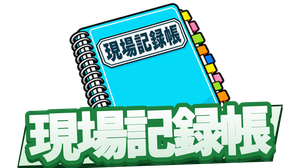
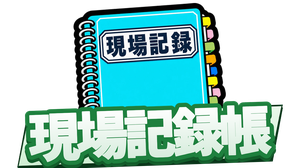
現場記録帳の絵を新しい絵に差し替え／メニューの絵を作る道具を保存
Claude-Session: https://claude.ai/code/session_01SSqBungNj4wBMJYD7VEwk6

Changed region(s): [[0.21, 0.0, 0.78, 0.6548]]

diff --git a/kirokucho_demo.html b/kirokucho_demo.html
@@ -1676,7 +1676,7 @@ header button.new-btn.newbig{font-size:17px !important; padding:3px 13px 4px !im
 
 <header id="nnHdr">
   <button class="new-btn nn-back nn-backimg" onclick="nnBack()" title="ひとつ前に戻る"><img src="./icons/btn_back.png?v=2026-09-07e" alt="戻る" onerror="var b=this.parentElement;b.classList.remove('nn-backimg');b.textContent='↩';"></button>
-  <span class="hicon" id="hicon"><img src="./icons/kiroku_icon.png?v=2026-10-24zr" alt="" style="height:34px;vertical-align:middle" onerror="this.parentElement.textContent=ICONS.header"></span>
+  <span class="hicon" id="hicon"><img src="./icons/kiroku_icon.png?v=2026-10-26s" alt="" style="height:34px;vertical-align:middle" onerror="this.parentElement.textContent=ICONS.header"></span>
   <h1><span class="nnTtl">現場記録帳</span></h1>
   <span class="count">全<span id="cnt">0</span>件</span>
   <button class="new-btn newbig" onclick="openModal()" style="font-size:17px; font-weight:800;">＋ 新規作成</button>
@@ -3270,7 +3270,7 @@ function buildNav(){
   n.innerHTML=NAV.map(([k,l])=>{
     const suf=(k===NAV_ACTIVE)?'_on':'';
     return `<div class="ni ${k===NAV_ACTIVE?'on':''}" onclick="navGo('${k}','${l}')">
-      <span class="ic"><img src="./icons/nav_${k}${suf}.png?v=2026-10-26n" alt="${l}"
+      <span class="ic"><img src="./icons/nav_${k}${suf}.png?v=2026-10-26s" alt="${l}"
         onload="this.closest('.ni').classList.add('hasimg')"
         onerror="if(!this.dataset.f){this.dataset.f=1;this.src='./icons/nav_${k}.png';}
                  else{this.outerHTML=ICONS['${k}']||'▫';}"></span><span>${l}</span></div>`;
@@ -4330,7 +4330,7 @@ function renderDash(onlyPanel){
       </table></div>
       <div class="motonote">予実差＝完成した現場の「実績の粗利率」−「見積のときの粗利率」。<b>マイナスは、見込みより残らなかった元請</b>です。手戻りは 手戻り／手直し／クレーム のタグが付いた現場の数。</div>
     </div>
-    <button class="go-list-btn" onclick="showView('list')"><img class="gl-ic" src="./icons/kiroku_icon.png?v=2026-10-24zr" alt="" onerror="this.remove()"><span class="gl-t" data-t="個別の現場記録へ">個別の現場記録へ</span><i class="gl-go">▶</i></button>`;
+    <button class="go-list-btn" onclick="showView('list')"><img class="gl-ic" src="./icons/kiroku_icon.png?v=2026-10-26s" alt="" onerror="this.remove()"><span class="gl-t" data-t="個別の現場記録へ">個別の現場記録へ</span><i class="gl-go">▶</i></button>`;
 
   if(onlyPanel){
     const panel=d.querySelector('.dpanel[data-panel-id="'+onlyPanel+'"]'),body=panel?.querySelector(':scope>.nn-panel-body');
@@ -4928,7 +4928,7 @@ nav, nav#nav{justify-content:center !important; padding-left:6px !important; pad
    古いものが出続けることがある。そこで ver.txt（数バイト）だけを
    毎回見に行き、公開版と違っていたら保存分を捨てて1回だけ読み直す。
    ★公開のたびに ver.txt と、下の NN_VER を同じ文字に更新すること。 */
-const NN_VER='2026-10-26r';
+const NN_VER='2026-10-26s';
 /* ============ 表示にかかった時間の記録（原因調査用・2026-07-28） ============
    スマホの実機でどこに時間がかかっているかを数字で出す。
    ・net  ＝ページを要求してから最初の返事が来るまで（通信の待ち）

diff --git a/index.html b/index.html
@@ -422,7 +422,7 @@ nav, nav#nav{overflow:visible; padding-top:2px;}
 
 <!-- 版の表示：スマホに届いている中身がどれかを、お互いに確認するための小さな印。
      不要になったらこの1行と #nnver の指定を消してください。 -->
-<div id="nnver">v2026-10-26 r</div>
+<div id="nnver">v2026-10-26 s</div>
 <script>
 /* ============ 実機の計測結果を表示（原因調査用・2026-07-28） ============
    数字の意味（単位はミリ秒）
@@ -522,7 +522,7 @@ function buildNav(){
   n.innerHTML=NAV.map(([k,l])=>{
     const suf=(k===NAV_ACTIVE)?'_on':'';
     return `<div class="ni ${k===NAV_ACTIVE?'on':''}" onclick="navGo('${k}','${l}')">
-      <span class="ic"><img src="./icons/nav_${k}${suf}.png?v=2026-10-26n" alt="${l}"
+      <span class="ic"><img src="./icons/nav_${k}${suf}.png?v=2026-10-26s" alt="${l}"
         onload="this.closest('.ni').classList.add('hasimg')"
         onerror="if(!this.dataset.f){this.dataset.f=1;this.src='./icons/nav_${k}.png';}
                  else{this.outerHTML=ICONS['${k}']||'▫';}"></span><span>${l}</span></div>`;
@@ -775,7 +775,7 @@ nav, nav#nav{justify-content:center !important; padding-left:6px !important; pad
    古いものが出続けることがある。そこで ver.txt（数バイト）だけを
    毎回見に行き、公開版と違っていたら保存分を捨てて1回だけ読み直す。
    ★公開のたびに ver.txt と、下の NN_VER を同じ文字に更新すること。 */
-const NN_VER='2026-10-26r';
+const NN_VER='2026-10-26s';
 /* ============ 表示にかかった時間の記録（原因調査用・2026-07-28） ============
    スマホの実機でどこに時間がかかっているかを数字で出す。
    ・net  ＝ページを要求してから最初の返事が来るまで（通信の待ち）

diff --git a/_check/navkiroku.js b/_check/navkiroku.js
@@ -21,7 +21,8 @@ for(const k of KEYS) for(const suf of ['','_on']){ const f='nav_'+k+suf+'.png';
     let band=0; for(let y=112;y<=150;y++){ const i=(y*c.width+3)*4; if(d[i+3]>200&&((Math.abs(d[i]-20)<=12&&Math.abs(d[i+1]-110)<=12&&Math.abs(d[i+2]-52)<=12)||(d[i]<30&&d[i+1]>150&&d[i+2]<110))) band++; }
     let ol=0; for(let y=c.height-60;y<c.height;y++) for(let x=0;x<c.width;x++){ const i=(y*c.width+x)*4; if(d[i+3]>200&&Math.abs(d[i]-30)<=16&&Math.abs(d[i+1]-128)<=16&&Math.abs(d[i+2]-62)<=16) ol++;   /* §803 文字のふち＝普通の緑 (30,128,62) */ }
     return {dark:worst,corner:d[(1*c.width+1)*4+3],band,ol,mid:d[(84*c.width+4)*4+3],w:c.width,h:c.height}; },data);
-  ok((k!=='kiroku'||r.dark<30)&&r.corner<20&&r.band<5&&r.ol>=600&&r.mid<20&&r.w===300&&r.h===168,f+' ①上端に暗い線なし ②角 ③帯なし ⑤大きい文字 ⑥カードなし・300×168',{線:r.dark,角:r.corner,帯:r.band,ふち:r.ol,左端:r.mid,大きさ:[r.w,r.h]});
+  /* ★2026-10-26s 現場記録帳の絵を本人が作り直し（黒いふち付きのデザイン）→ 上端の暗い点は絵のふちなので、ほかの絵と同じく見ない */
+  ok(r.corner<20&&r.band<5&&r.ol>=600&&r.mid<20&&r.w===300&&r.h===168,f+' ①上端に暗い線なし ②角 ③帯なし ⑤大きい文字 ⑥カードなし・300×168',{線:r.dark,角:r.corner,帯:r.band,ふち:r.ol,左端:r.mid,大きさ:[r.w,r.h]});
 }
 await b.close();
 const pages=['index','kirokucho_demo','zumen_sekisan','genba_map_v36','hacchu','kokkosho','camera','library','shiyo_toroku','yougo','zairyo_toroku'];

diff --git a/kokkosho.html b/kokkosho.html
@@ -1907,7 +1907,7 @@ function buildNav(){
   n.innerHTML=NAV.map(([k,l])=>{
     const suf=(k===NAV_ACTIVE)?'_on':'';
     return `<div class="ni ${k===NAV_ACTIVE?'on':''}" onclick="navGo('${k}','${l}')">
-      <span class="ic"><img src="./icons/nav_${k}${suf}.png?v=2026-10-26n" alt="${l}"
+      <span class="ic"><img src="./icons/nav_${k}${suf}.png?v=2026-10-26s" alt="${l}"
         onload="this.closest('.ni').classList.add('hasimg')"
         onerror="if(!this.dataset.f){this.dataset.f=1;this.src='./icons/nav_${k}.png';}
                  else{this.outerHTML=NAV_ICONS['${k}']||'▫';}"></span><span>${l}</span></div>`;
@@ -2491,7 +2491,7 @@ nav, nav#nav{justify-content:center !important; padding-left:6px !important; pad
    古いものが出続けることがある。そこで ver.txt（数バイト）だけを
    毎回見に行き、公開版と違っていたら保存分を捨てて1回だけ読み直す。
    ★公開のたびに ver.txt と、下の NN_VER を同じ文字に更新すること。 */
-const NN_VER='2026-10-26r';
+const NN_VER='2026-10-26s';
 /* ============ 表示にかかった時間の記録（原因調査用・2026-07-28） ============
    スマホの実機でどこに時間がかかっているかを数字で出す。
    ・net  ＝ページを要求してから最初の返事が来るまで（通信の待ち）

diff --git a/genba_map_v36.html b/genba_map_v36.html
@@ -4859,7 +4859,7 @@ function buildNav(){
   n.innerHTML=NAV.map(([k,l])=>{
     const suf=(k===NAV_ACTIVE)?'_on':'';
     return `<div class="ni ${k===NAV_ACTIVE?'on':''}" onclick="navGo('${k}','${l}')">
-      <span class="ic"><img src="./icons/nav_${k}${suf}.png?v=2026-10-26n" alt="${l}"
+      <span class="ic"><img src="./icons/nav_${k}${suf}.png?v=2026-10-26s" alt="${l}"
         onload="this.closest('.ni').classList.add('hasimg')"
         onerror="if(!this.dataset.f){this.dataset.f=1;this.src='./icons/nav_${k}.png';}
                  else{this.outerHTML=ICONS['${k}']||'▫';}"></span><span>${l}</span></div>`;
@@ -5048,7 +5048,7 @@ nav, nav#nav{justify-content:center !important; padding-left:6px !important; pad
    古いものが出続けることがある。そこで ver.txt（数バイト）だけを
    毎回見に行き、公開版と違っていたら保存分を捨てて1回だけ読み直す。
    ★公開のたびに ver.txt と、下の NN_VER を同じ文字に更新すること。 */
-const NN_VER='2026-10-26r';
+const NN_VER='2026-10-26s';
 /* ============ 表示にかかった時間の記録（原因調査用・2026-07-28） ============
    スマホの実機でどこに時間がかかっているかを数字で出す。
    ・net  ＝ページを要求してから最初の返事が来るまで（通信の待ち）

diff --git a/shiyo_toroku.html b/shiyo_toroku.html
@@ -1388,7 +1388,7 @@ function buildNav(){
   n.innerHTML=NAV.map(([k,l])=>{
     const suf=(k===NAV_ACTIVE)?'_on':'';
     return `<div class="ni ${k===NAV_ACTIVE?'on':''}" onclick="navGo('${k}','${l}')">
-      <span class="ic"><img src="./icons/nav_${k}${suf}.png?v=2026-10-26n" alt="${l}"
+      <span class="ic"><img src="./icons/nav_${k}${suf}.png?v=2026-10-26s" alt="${l}"
         onload="this.closest('.ni').classList.add('hasimg')"
         onerror="if(!this.dataset.f){this.dataset.f=1;this.src='./icons/nav_${k}.png';}
                  else{this.outerHTML=ICONS['${k}']||'▫';}"></span><span>${l}</span></div>`;
@@ -1821,7 +1821,7 @@ nav, nav#nav{justify-content:center !important; padding-left:6px !important; pad
    古いものが出続けることがある。そこで ver.txt（数バイト）だけを
    毎回見に行き、公開版と違っていたら保存分を捨てて1回だけ読み直す。
    ★公開のたびに ver.txt と、下の NN_VER を同じ文字に更新すること。 */
-const NN_VER='2026-10-26r';
+const NN_VER='2026-10-26s';
 /* ============ 表示にかかった時間の記録（原因調査用・2026-07-28） ============
    スマホの実機でどこに時間がかかっているかを数字で出す。
    ・net  ＝ページを要求してから最初の返事が来るまで（通信の待ち）

diff --git a/zairyo_toroku.html b/zairyo_toroku.html
@@ -1208,7 +1208,7 @@ function buildNav(){
   n.innerHTML=NAV.map(([k,l])=>{
     const suf=(k===NAV_ACTIVE)?'_on':'';
     return `<div class="ni ${k===NAV_ACTIVE?'on':''}" onclick="navGo('${k}','${l}')">
-      <span class="ic"><img src="./icons/nav_${k}${suf}.png?v=2026-10-26n" alt="${l}"
+      <span class="ic"><img src="./icons/nav_${k}${suf}.png?v=2026-10-26s" alt="${l}"
         onload="this.closest('.ni').classList.add('hasimg')"
         onerror="if(!this.dataset.f){this.dataset.f=1;this.src='./icons/nav_${k}.png';}
                  else{this.outerHTML=ICONS['${k}']||'▫';}"></span><span>${l}</span></div>`;
@@ -1613,7 +1613,7 @@ nav, nav#nav{justify-content:center !important; padding-left:6px !important; pad
    古いものが出続けることがある。そこで ver.txt（数バイト）だけを
    毎回見に行き、公開版と違っていたら保存分を捨てて1回だけ読み直す。
    ★公開のたびに ver.txt と、下の NN_VER を同じ文字に更新すること。 */
-const NN_VER='2026-10-26r';
+const NN_VER='2026-10-26s';
 /* ============ 表示にかかった時間の記録（原因調査用・2026-07-28） ============
    スマホの実機でどこに時間がかかっているかを数字で出す。
    ・net  ＝ページを要求してから最初の返事が来るまで（通信の待ち）

diff --git a/zumen_sekisan.html b/zumen_sekisan.html
@@ -5883,7 +5883,7 @@ function buildNav(){
   n.innerHTML=NAV.map(([k,l])=>{
     const suf=(k===NAV_ACTIVE)?'_on':'';
     return `<div class="ni ${k===NAV_ACTIVE?'on':''}" onclick="navGo('${k}','${l}')">
-      <span class="ic"><img src="./icons/nav_${k}${suf}.png?v=2026-10-26n" alt="${l}"
+      <span class="ic"><img src="./icons/nav_${k}${suf}.png?v=2026-10-26s" alt="${l}"
         onload="this.closest('.ni').classList.add('hasimg')"
         onerror="if(!this.dataset.f){this.dataset.f=1;this.src='./icons/nav_${k}.png';}
                  else{this.outerHTML=ICONS['${k}']||'▫';}"></span><span>${l}</span></div>`;
@@ -6342,7 +6342,7 @@ nav, nav#nav{justify-content:center !important; padding-left:6px !important; pad
    古いものが出続けることがある。そこで ver.txt（数バイト）だけを
    毎回見に行き、公開版と違っていたら保存分を捨てて1回だけ読み直す。
    ★公開のたびに ver.txt と、下の NN_VER を同じ文字に更新すること。 */
-const NN_VER='2026-10-26r';
+const NN_VER='2026-10-26s';
 /* ============ 表示にかかった時間の記録（原因調査用・2026-07-28） ============
    スマホの実機でどこに時間がかかっているかを数字で出す。
    ・net  ＝ページを要求してから最初の返事が来るまで（通信の待ち）

diff --git a/camera.html b/camera.html
@@ -334,7 +334,7 @@ function buildNav(){
   n.innerHTML=NAV.map(([k,l])=>{
     const suf=(k===NAV_ACTIVE)?'_on':'';
     return `<div class="ni ${k===NAV_ACTIVE?'on':''}" onclick="navGo('${k}','${l}')">
-      <span class="ic"><img src="./icons/nav_${k}${suf}.png?v=2026-10-26n" alt="${l}"
+      <span class="ic"><img src="./icons/nav_${k}${suf}.png?v=2026-10-26s" alt="${l}"
         onload="this.closest('.ni').classList.add('hasimg')"
         onerror="if(!this.dataset.f){this.dataset.f=1;this.src='./icons/nav_${k}.png';}
                  else{this.outerHTML=ICONS['${k}']||'▫';}"></span><span>${l}</span></div>`;
@@ -1296,7 +1296,7 @@ nav, nav#nav{justify-content:center !important; padding-left:6px !important; pad
    古いものが出続けることがある。そこで ver.txt（数バイト）だけを
    毎回見に行き、公開版と違っていたら保存分を捨てて1回だけ読み直す。
    ★公開のたびに ver.txt と、下の NN_VER を同じ文字に更新すること。 */
-const NN_VER='2026-10-26r';
+const NN_VER='2026-10-26s';
 /* ============ 表示にかかった時間の記録（原因調査用・2026-07-28） ============
    スマホの実機でどこに時間がかかっているかを数字で出す。
    ・net  ＝ページを要求してから最初の返事が来るまで（通信の待ち）

diff --git a/hacchu.html b/hacchu.html
@@ -378,7 +378,7 @@ function buildNav(){
   n.innerHTML=NAV.map(([k,l])=>{
     const suf=(k===NAV_ACTIVE)?'_on':'';
     return `<div class="ni ${k===NAV_ACTIVE?'on':''}" onclick="navGo('${k}','${l}')">
-      <span class="ic"><img src="./icons/nav_${k}${suf}.png?v=2026-10-26n" alt="${l}"
+      <span class="ic"><img src="./icons/nav_${k}${suf}.png?v=2026-10-26s" alt="${l}"
         onload="this.closest('.ni').classList.add('hasimg')"
         onerror="if(!this.dataset.f){this.dataset.f=1;this.src='./icons/nav_${k}.png';}
                  else{this.outerHTML=ICONS['${k}']||'▫';}"></span><span>${l}</span></div>`;
@@ -1126,7 +1126,7 @@ nav, nav#nav{justify-content:center !important; padding-left:6px !important; pad
    古いものが出続けることがある。そこで ver.txt（数バイト）だけを
    毎回見に行き、公開版と違っていたら保存分を捨てて1回だけ読み直す。
    ★公開のたびに ver.txt と、下の NN_VER を同じ文字に更新すること。 */
-const NN_VER='2026-10-26r';
+const NN_VER='2026-10-26s';
 /* ============ 表示にかかった時間の記録（原因調査用・2026-07-28） ============
    スマホの実機でどこに時間がかかっているかを数字で出す。
    ・net  ＝ページを要求してから最初の返事が来るまで（通信の待ち）

diff --git a/library.html b/library.html
@@ -417,7 +417,7 @@ function buildNav(){
   n.innerHTML=NAV.map(([k,l])=>{
     const suf=(k===NAV_ACTIVE)?'_on':'';
     return `<div class="ni ${k===NAV_ACTIVE?'on':''}" onclick="navGo('${k}','${l}')">
-      <span class="ic"><img src="./icons/nav_${k}${suf}.png?v=2026-10-26n" alt="${l}"
+      <span class="ic"><img src="./icons/nav_${k}${suf}.png?v=2026-10-26s" alt="${l}"
         onload="this.closest('.ni').classList.add('hasimg')"
         onerror="if(!this.dataset.f){this.dataset.f=1;this.src='./icons/nav_${k}.png';}
                  else{this.outerHTML=ICONS['${k}']||'▫';}"></span><span>${l}</span></div>`;
@@ -1193,7 +1193,7 @@ nav, nav#nav{justify-content:center !important; padding-left:6px !important; pad
    古いものが出続けることがある。そこで ver.txt（数バイト）だけを
    毎回見に行き、公開版と違っていたら保存分を捨てて1回だけ読み直す。
    ★公開のたびに ver.txt と、下の NN_VER を同じ文字に更新すること。 */
-const NN_VER='2026-10-26r';
+const NN_VER='2026-10-26s';
 /* ============ 表示にかかった時間の記録（原因調査用・2026-07-28） ============
    スマホの実機でどこに時間がかかっているかを数字で出す。
    ・net  ＝ページを要求してから最初の返事が来るまで（通信の待ち）

diff --git a/yougo.html b/yougo.html
@@ -317,7 +317,7 @@ function buildNav(){
   n.innerHTML=NAV.map(([k,l])=>{
     const suf=(k===NAV_ACTIVE)?'_on':'';
     return `<div class="ni ${k===NAV_ACTIVE?'on':''}" onclick="navGo('${k}','${l}')">
-      <span class="ic"><img src="./icons/nav_${k}${suf}.png?v=2026-10-26n" alt="${l}"
+      <span class="ic"><img src="./icons/nav_${k}${suf}.png?v=2026-10-26s" alt="${l}"
         onload="this.closest('.ni').classList.add('hasimg')"
         onerror="if(!this.dataset.f){this.dataset.f=1;this.src='./icons/nav_${k}.png';}
                  else{this.outerHTML=ICONS['${k}']||'▫';}"></span><span>${l}</span></div>`;
@@ -1429,7 +1429,7 @@ nav, nav#nav{justify-content:center !important; padding-left:6px !important; pad
    古いものが出続けることがある。そこで ver.txt（数バイト）だけを
    毎回見に行き、公開版と違っていたら保存分を捨てて1回だけ読み直す。
    ★公開のたびに ver.txt と、下の NN_VER を同じ文字に更新すること。 */
-const NN_VER='2026-10-26r';
+const NN_VER='2026-10-26s';
 /* ============ 表示にかかった時間の記録（原因調査用・2026-07-28） ============
    スマホの実機でどこに時間がかかっているかを数字で出す。
    ・net  ＝ページを要求してから最初の返事が来るまで（通信の待ち）
